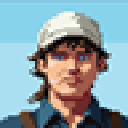
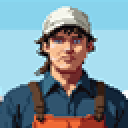
Profile pictures: centered character close-ups, skin pictures unlocked by owning the skin; Splash effects store tab (Sparkle, Water splash, 250 EB) shown to everyone when you play a card

diff --git a/public/client.js b/public/client.js
@@ -1,6 +1,6 @@
 // Everglades — browser client. Renders whatever the server says the game looks like.
 'use strict';
-const { CARDS, REGIONS, BIOMES, ROLES, BOSS, CHAR_ANIM, SKINS, CHAT, CHAT_GROUP_NAMES, DISRUPTIONS, FOIL_PRICE } = window.EG_DATA;
+const { CARDS, REGIONS, BIOMES, ROLES, BOSS, CHAR_ANIM, SKINS, CHAT, CHAT_GROUP_NAMES, DISRUPTIONS, FOIL_PRICE, SPLASHES } = window.EG_DATA;
 const roleInfo = r => r === 'Anaconda' ? BOSS : (r ? ROLES[r] : null);
 const $app = document.getElementById('app');
 const $peek = document.getElementById('peek');
@@ -291,7 +291,14 @@ function profileModal() {
   const need = C.econ.unlockWins;
   const tile = (a, locked, label, sub) => `<button class="avtile ${me.avatar === a.id ? 'on' : ''} ${locked ? 'locked' : ''}" ${locked ? 'disabled' : `data-avatar="${a.id}"`} title="${esc(label)}">
       <img src="${a.src}" alt="${esc(label)}">${locked ? `<span class="lock">${sub}</span>` : ''}</button>`;
-  const chars = C.avatars.characters.map(a => tile(a, false, a.id.split(':')[1].replace('LandDeveloper', 'Land Developer'))).join('');
+  // the characters, each followed by the skins of it you own
+  const ownedSkins = (C.avatars.skins || []).filter(s => me.owned.includes(s.id));
+  const chars = C.avatars.characters.map(a => {
+    const role = a.id.split(':')[1];
+    return tile(a, false, role.replace('LandDeveloper', 'Land Developer')) +
+      ownedSkins.filter(s => s.role === role).map(s => tile(s, false, `${s.name} (${ROLES[role].name} skin)`)).join('');
+  }).join('');
+  const skinNote = (C.avatars.skins || []).length > ownedSkins.length ? ' — skins you buy appear here too' : '';
   const unlockedN = C.avatars.animals.filter(a => me.unlocked.includes(a.id)).length;
   const animals = C.avatars.animals.map(a => {
     const wins = me.cardWins[a.card] || 0, locked = !me.unlocked.includes(a.id);
@@ -305,7 +312,7 @@ function profileModal() {
       <button class="btn brass" id="saveTag">Save gamertag</button>
     </div>
     <p class="hint" style="margin:0">Games ${me.stats.games} · First places ${me.stats.firsts} · Won ${Number(me.stats.ebWon).toLocaleString()} EB · Lost ${Number(me.stats.ebLost).toLocaleString()} EB${me.guest ? ' · Guest account (this browser only)' : ''}</p>
-    <div class="panel-title" style="margin:6px 0 0">Characters</div>
+    <div class="panel-title" style="margin:6px 0 0">Characters <span class="hint" style="text-transform:none;letter-spacing:0">${skinNote}</span></div>
     <div class="avgrid">${chars}</div>
     <div class="panel-title" style="margin:6px 0 0">Wildlife <span class="hint" style="text-transform:none;letter-spacing:0">— ${unlockedN}/${C.avatars.animals.length} unlocked. Win ${need} tricks with an animal card to unlock its picture.</span></div>
     <div class="avgrid">${animals}</div>
@@ -338,6 +345,7 @@ function storeModal() {
   let page = '';
   if (tab === 'eb') page = ebStoreHtml(me, C);
   if (tab === 'titles') page = titleStoreHtml(me, C);
+  if (tab === 'splash') page = splashStoreHtml(me, C);
   if (tab === 'skins') page = skinStoreHtml(me);
   if (tab === 'chat') page = chatStoreHtml(me);
   if (tab === 'foil') page = foilStoreHtml(me);
@@ -354,6 +362,7 @@ const STORE_TABS = {
   skins: { label: 'Character skins', type: 'skin' },
   chat: { label: 'Chat lines', type: 'chat' },
   foil: { label: 'Foil cards', type: 'foil' },
+  splash: { label: 'Splash effects', type: 'splash' },
   titles: { label: 'Titles', type: 'title' },
 };
 document.addEventListener('click', e => {
@@ -401,6 +410,110 @@ async function finishPurchase() {
   }
   showToast('Your payment is still processing. Your Eco-bucks will appear as soon as it clears.', false, 6000);
 }
+// Splash effects: preview each one on a sample card, buy it, and pick which one you use.
+function splashStoreHtml(me, C) {
+  const items = C.store.filter(it => it.type === 'splash').map(it => {
+    const owned = me.owned.includes(it.id), using = me.splash === it.splash;
+    const action = owned
+      ? `<button class="btn ${using ? '' : 'brass'}" data-splashwear="${using ? '' : it.splash}">${using ? 'Turn off' : 'Use this effect'}</button>`
+      : `<button class="btn primary" data-buy="${it.id}" ${me.balance < it.price ? 'disabled' : ''}>Buy · ${Number(it.price).toLocaleString()} EB</button>`;
+    return `<div class="storeitem">
+      <div class="storeprev splashprev"><button class="splashdemo" data-splashpreview="${it.splash}" title="Preview">${cardEl(it.splash === 'splash' ? 'Manatee' : 'Flamingo', '', 'data-splashcard="' + it.splash + '"')}<span>▶ Preview</span></button></div>
+      <div class="storeinfo"><b>${esc(it.name)}</b><span class="hint">${esc(it.blurb)}</span>
+        <span>${fmtEB(it.price)}${owned ? ` · <span style="color:var(--native)">${using ? 'In use' : 'Owned'}</span>` : me.balance < it.price ? ` · <span class="hint">you need ${(it.price - me.balance).toLocaleString()} more</span>` : ''}</span></div>
+      <div>${action}</div></div>`;
+  }).join('');
+  return `<p class="hint" style="margin:0 0 8px">Your splash effect bursts from every card you play, and everyone at the table sees it. You use one at a time.</p><div class="storelist">${items}</div>`;
+}
+document.addEventListener('click', async e => {
+  const pv = e.target.closest('[data-splashpreview]');
+  if (pv) { e.preventDefault(); const card = pv.querySelector('.card'); if (card) playSplash(pv.dataset.splashpreview, card, true); return; }
+  const w = e.target.closest('[data-splashwear]'); if (!w) return;
+  try { acct.msg = ''; acct.me = (await acctApi('profile', { splash: w.dataset.splashwear || null })).me; } catch (err) { acct.msg = err.message; SFX.error(); }
+  render();
+});
+
+// ---------- splash effects (pixel-art particles drawn over a card) ----------
+// A canvas laid over the card (and a margin around it) for about a second. Drawn at 1/3 resolution and scaled up
+// without smoothing, so the particles are chunky pixels like the rest of the game.
+const SPLASH_PX = 3;
+function playSplash(type, el, preview = false) {
+  if (!el || !SPLASHES.some(s => s.id === type)) return;
+  if (matchMedia('(prefers-reduced-motion: reduce)').matches && !preview) return;
+  const r = el.getBoundingClientRect(); if (!r.width) return;
+  const M = Math.round(Math.max(40, r.width * 0.7)); // room around the card for the burst
+  const cv = document.createElement('canvas');
+  cv.className = 'splashfx';
+  const W = Math.ceil((r.width + 2 * M) / SPLASH_PX), H = Math.ceil((r.height + 2 * M) / SPLASH_PX);
+  cv.width = W; cv.height = H;
+  Object.assign(cv.style, { left: (r.left - M) + 'px', top: (r.top - M) + 'px', width: W * SPLASH_PX + 'px', height: H * SPLASH_PX + 'px' });
+  document.body.appendChild(cv);
+  const g = cv.getContext('2d');
+  const cx = W / 2, cy = H / 2, cw = r.width / SPLASH_PX, ch = r.height / SPLASH_PX;
+  const rnd = (a, b) => a + Math.random() * (b - a);
+  const dot = (x, y, c, s = 1) => { g.fillStyle = c; g.fillRect(Math.round(x), Math.round(y), s, s); };
+  let parts = [], dur = 1100;
+  if (type === 'sparkle') {
+    dur = 1200;
+    for (let i = 0; i < 32; i++) { // stars burst from the card's edges and twinkle as they drift out
+      const a = rnd(0, Math.PI * 2), sp = rnd(10, 34);
+      const ex = cx + Math.cos(a) * cw * 0.45, ey = cy + Math.sin(a) * ch * 0.45;
+      parts.push({ x: ex, y: ey, vx: Math.cos(a) * sp, vy: Math.sin(a) * sp - 6, big: Math.random() < 0.35, ph: rnd(0, 6), c: ['#fff6b0', '#ffd84a', '#ffffff', '#ffe98a'][i % 4], life: rnd(0.65, 1) });
+    }
+  } else { // water splash: a crown of droplets thrown out from the card's base, falling back; a ripple rings out
+    const base = cy + ch / 2 - 2;
+    for (let i = 0; i < 48; i++) {
+      const side = i % 2 ? -1 : 1, edge = rnd(0.15, 0.5); // more droplets from near the card's sides
+      parts.push({ x: cx + side * cw * edge, y: base - rnd(0, ch * 0.15), vx: side * rnd(10, 38) * (0.6 + edge), vy: -rnd(45, 95),
+        s: Math.random() < 0.55 ? 2 : 1, c: ['#d8f6ff', '#6fd0f4', '#2e8fd0', '#ffffff', '#4fb4e6'][i % 5], life: rnd(0.75, 1) });
+    }
+  }
+  const t0 = performance.now();
+  (function frame(now) {
+    const t = (now - t0) / dur; // 0..1
+    g.clearRect(0, 0, W, H);
+    if (t >= 1 || !cv.isConnected) { cv.remove(); return; }
+    const dt = (now - t0) / 1000;
+    if (type === 'sparkle') {
+      // a quick flash around the card first
+      if (t < 0.18) { g.globalAlpha = 1 - t / 0.18; g.strokeStyle = '#fff6b0'; g.lineWidth = 1; g.strokeRect(Math.round(cx - cw / 2) - 1, Math.round(cy - ch / 2) - 1, Math.round(cw) + 2, Math.round(ch) + 2); g.globalAlpha = 1; }
+      for (const p of parts) {
+        if (t > p.life) continue;
+        const k = 1 - Math.min(1, dt * 1.6) * 0.6; // slow down as they drift
+        const x = p.x + p.vx * dt * k, y = p.y + p.vy * dt * k + 8 * dt * dt;
+        const tw = Math.sin(dt * 18 + p.ph) > -0.2; // twinkle
+        g.globalAlpha = Math.max(0, 1 - t / p.life);
+        if (!tw) { dot(x, y, p.c); continue; }
+        dot(x, y, p.c); dot(x - 1, y, p.c); dot(x + 1, y, p.c); dot(x, y - 1, p.c); dot(x, y + 1, p.c); // a little plus-shaped star
+        if (p.big && t < 0.6) { dot(x - 2, y, '#ffffff'); dot(x + 2, y, '#ffffff'); dot(x, y - 2, '#ffffff'); dot(x, y + 2, '#ffffff'); }
+      }
+    } else {
+      // ripple: two pixel ellipses spreading out under the card
+      for (const [delay, col] of [[0, '#7fd6f5'], [0.18, '#bfefff']]) {
+        const q = (t - delay) / 0.75; if (q <= 0 || q >= 1) continue;
+        const rx = cw * (0.35 + q * 0.55), ry = Math.max(2, rx * 0.22), by = cy + ch / 2 - 2;
+        g.globalAlpha = (1 - q) * 0.9;
+        for (let a = 0; a < Math.PI * 2; a += 0.12) dot(cx + Math.cos(a) * rx, by + Math.sin(a) * ry, col);
+      }
+      // the first moment: two columns of spray shooting up from the base corners
+      if (t < 0.3) {
+        g.globalAlpha = 1 - t / 0.3;
+        const hgt = Math.round(ch * 0.55 * Math.sin(Math.min(1, t / 0.15) * Math.PI / 2));
+        for (const sx of [cx - cw * 0.42, cx + cw * 0.42]) for (let k = 0; k < hgt; k += 2) dot(sx + (k % 4 ? 1 : -1), cy + ch / 2 - 2 - k, k % 6 ? '#bfefff' : '#ffffff', 2);
+      }
+      for (const p of parts) {
+        if (t > p.life) continue;
+        const vy = p.vy + 150 * dt, x = p.x + p.vx * dt, y = p.y + p.vy * dt + 75 * dt * dt; // gravity
+        g.globalAlpha = Math.max(0, Math.min(1, (p.life - t) * 4));
+        dot(x, y, p.c, p.s);
+        if (vy < 0) dot(x, y + p.s, p.c, 1); // a short streak while rising
+      }
+    }
+    g.globalAlpha = 1;
+    requestAnimationFrame(frame);
+  })(t0);
+}
+
 function titleStoreHtml(me, C) {
   const items = C.store.filter(it => it.type === 'title').map(it => {
     const owned = me.owned.includes(it.id), wearing = me.title === it.id;
@@ -729,6 +842,10 @@ function onUpdate(prev) {
     if (S.phase === 'ended' && prev.phase !== 'ended') setTimeout(SFX.end, 700);
     if (prev.phase === 'choose' && S.phase === 'play') SFX.travel();
     if (prev.phase === 'draft' && S.players.filter(p => p.role).length > prev.players.filter(p => p.role).length) SFX.trick();
+    // splash effects: cards that just landed in the trick, played by someone with an effect equipped
+    const nowPlays = S.trick ? S.trick.plays : newTrick ? lt.plays : [];
+    const before = new Set(prev.trick ? prev.trick.plays.map(x => x.card) : []);
+    for (const pl of nowPlays) if (!before.has(pl.card) && S.players[pl.p] && S.players[pl.p].splash) (ui.fxQueue = ui.fxQueue || []).push({ card: pl.card, type: S.players[pl.p].splash });
     const prevPlays = prev.trick ? prev.trick.plays.length : 0;
     if ((S.trick && S.trick.plays.length > prevPlays) || (newTrick && prevPlays < S.players.length)) SFX.card();
     const d = boardTotal(S.board) - boardTotal(prev.board);
@@ -1077,8 +1194,8 @@ function trickDoneHtml() {
       </div>
     </div>
     <div class="played" style="--n:${lt.plays.length}">${lt.plays.map(pl => pl.card === lt.card
-      ? captioned(cardEl(pl.card, `winner ${pl.p === S.you ? foil(pl.card) : ''}`, '', '', `<div class="winribbon">${lt.crisis ? 'CRISIS!' : 'WINNER'}</div>`), who(pl.p), 'win')
-      : captioned(cardEl(pl.card, `loser ${pl.p === S.you ? foil(pl.card) : ''}`), who(pl.p), 'lose')).join('')}</div>
+      ? captioned(cardEl(pl.card, `winner ${pl.p === S.you ? foil(pl.card) : ''}`, `data-played="${pl.card}"`, '', `<div class="winribbon">${lt.crisis ? 'CRISIS!' : 'WINNER'}</div>`), who(pl.p), 'win')
+      : captioned(cardEl(pl.card, `loser ${pl.p === S.you ? foil(pl.card) : ''}`, `data-played="${pl.card}"`), who(pl.p), 'lose')).join('')}</div>
     <div class="holdbar"><span style="animation-duration:${ui.trickHold.ms}ms;animation-delay:-${elapsed}ms"></span></div>
   </div>`;
 }
@@ -1172,7 +1289,7 @@ function tableHtml() {
       ${disPanelHtml()}
     </div>
     <div class="played" style="--n:${slots}">${S.trick.plays.length
-      ? S.trick.plays.map(pl => captioned(cardEl(pl.card, pl.p === S.you ? foil(pl.card) : ''), seatName(pl.p))).join('')
+      ? S.trick.plays.map(pl => captioned(cardEl(pl.card, pl.p === S.you ? foil(pl.card) : '', `data-played="${pl.card}"`), seatName(pl.p))).join('')
       : `<span class="lastline" style="color:var(--blush)">${S.phase === 'disrupt' ? 'Cards are played once the Disruptions are resolved.' : 'No cards played yet.'}</span>`}</div>
     <div class="strip">
       <h3>Travel row</h3>
@@ -1269,6 +1386,10 @@ function renderGame() {
   }
   ui.scrollTo = null;
   placeBubbles();
+  if (ui.fxQueue && ui.fxQueue.length) {
+    const q = ui.fxQueue; ui.fxQueue = [];
+    requestAnimationFrame(() => { for (const f of q) playSplash(f.type, [...document.querySelectorAll(`[data-played="${f.card}"]`)].find(e => e.offsetParent)); });
+  }
 }
 // phone layout (matches the phone media query in style.css)
 const phoneMQ = matchMedia('(max-width: 760px), (max-height: 520px) and (max-width: 1000px)');

diff --git a/accounts.js b/accounts.js
@@ -6,7 +6,7 @@
 'use strict';
 const path = require('path');
 const crypto = require('crypto');
-const { CARDS, ROLES, SKINS, CHAT, DISRUPTIONS, FOIL_PRICE } = require('./public/data.js');
+const { CARDS, ROLES, SKINS, CHAT, DISRUPTIONS, FOIL_PRICE, SPLASHES } = require('./public/data.js');
 
 // ---------- economy settings (change freely) ----------
 const ECON = {
@@ -30,15 +30,18 @@ const STORE = [
   // as foil, for that player only.
   ...Object.values(CARDS).map(c => ({ id: 'foil:' + c.id, type: 'foil', card: c.id, deck: c.kind, name: c.name + ' (foil)', price: FOIL_PRICE, blurb: 'Foil Ecology card' })),
   ...Object.values(DISRUPTIONS).map(d => ({ id: 'foil:' + d.id, type: 'foil', card: d.id, deck: 'Disruption', name: d.name + ' (foil)', price: FOIL_PRICE, blurb: 'Foil Disruption card' })),
+  // type 'splash': an effect that plays over your card when you play it (SPLASHES in public/data.js); equipped like a title
+  ...SPLASHES.map(s => ({ id: 'splash:' + s.id, type: 'splash', splash: s.id, name: s.name, price: s.price, blurb: s.blurb })),
 ];
 const ownsChat = (a, id) => !!a && a.owned.includes('chat:' + id);
 
 // ---------- profile pictures ----------
 const CHARACTER_AVATARS = ['Conservationist', 'Fisherman', 'Hunter', 'LandDeveloper', 'Researcher', 'Tourist', 'Anaconda'];
 const ANIMAL_AVATARS = Object.values(CARDS).filter(c => c.taxon !== 'Plant').map(c => c.id);
+// every character skin has a picture too ('skin:<id>'), unlocked by owning the skin
 const avatarSrc = id => {
   const [kind, name] = String(id).split(':');
-  return kind === 'animal' ? `assets/avatars/animal_${name}.png` : `assets/avatars/char_${name}.png`;
+  return kind === 'animal' ? `assets/avatars/animal_${name}.png` : kind === 'skin' ? `assets/avatars/skin_${name}.png` : `assets/avatars/char_${name}.png`;
 };
 
 // ---------- storage (see storage.js: Upstash Redis when configured, otherwise a local file) ----------
@@ -151,10 +154,11 @@ async function googleLogin(credential) {
 // ---------- profile ----------
 function unlockedAvatars(a) {
   return [...CHARACTER_AVATARS.map(c => 'char:' + c),
+    ...SKINS.filter(s => a.owned.includes('skin:' + s.id)).map(s => 'skin:' + s.id),
     ...ANIMAL_AVATARS.filter(id => (a.cardWins[id] || 0) >= ECON.unlockWins).map(id => 'animal:' + id)];
 }
 // skin: { role, id } equips skin `id` for that character; id null goes back to the original look.
-function setProfile(a, { gamertag, avatar, title, skin }) {
+function setProfile(a, { gamertag, avatar, title, skin, splash }) {
   if (skin !== undefined) {
     const role = skin && skin.role, id = skin && skin.id;
     if (!ROLES[role]) throw userErr('That character does not exist.');
@@ -181,6 +185,10 @@ function setProfile(a, { gamertag, avatar, title, skin }) {
     if (title !== null && !a.owned.includes(title)) throw userErr("You don't own that title yet.");
     a.title = title;
   }
+  if (splash !== undefined) { // a splash effect id ('sparkle'), or null to turn it off
+    if (splash !== null && !a.owned.includes('splash:' + splash)) throw userErr("You don't own that splash effect yet.");
+    a.splash = splash;
+  }
   save();
   return a;
 }
@@ -202,6 +210,7 @@ function buy(a, itemId) {
   a.balance -= item.price; a.owned.push(item.id);
   if (item.type === 'title' && !a.title) a.title = item.id; // wear it straight away
   if (item.type === 'skin') a.skins = Object.assign({}, a.skins, { [item.role]: item.skin }); // equip it straight away
+  if (item.type === 'splash') a.splash = item.splash; // switch to the new effect straight away
   save();
   return item;
 }
@@ -284,9 +293,10 @@ function skinFor(a, role) {
   const id = a && a.skins && a.skins[role];
   return id && a.owned.includes('skin:' + id) ? id : null;
 }
+const splashFor = a => (a && a.splash && a.owned.includes('splash:' + a.splash) ? a.splash : null); // the effect everyone sees
 function publicProfile(a) { // shown to everyone (lobby banner)
   return { id: a.id, gamertag: a.gamertag, avatar: a.avatar, avatarSrc: avatarSrc(a.avatar), title: a.title, titleName: titleName(a.title),
-    skins: Object.fromEntries(Object.keys(ROLES).map(r => [r, skinFor(a, r)]).filter(x => x[1])) };
+    skins: Object.fromEntries(Object.keys(ROLES).map(r => [r, skinFor(a, r)]).filter(x => x[1])), splash: splashFor(a) };
 }
 function privateProfile(a) { // shown to the account owner
   return Object.assign(publicProfile(a), {
@@ -297,6 +307,7 @@ function privateProfile(a) { // shown to the account owner
 function config() {
   return { googleClientId: GOOGLE_CLIENT_ID(), guestsAllowed: guestsAllowed(), econ: ECON, store: STORE,
     avatars: { characters: CHARACTER_AVATARS.map(c => ({ id: 'char:' + c, src: avatarSrc('char:' + c) })),
+      skins: SKINS.map(s => ({ id: 'skin:' + s.id, role: s.role, name: s.name, src: avatarSrc('skin:' + s.id) })),
       animals: ANIMAL_AVATARS.map(id => ({ id: 'animal:' + id, card: id, name: CARDS[id].name, src: avatarSrc('animal:' + id) })) } };
 }
 const get = id => db.accounts[id] || null;
@@ -336,5 +347,5 @@ function adjustPurchase(paymentIntent, change) {
 module.exports = {
   ECON, STORE, ready, flush, saveNow, storeName: () => store.name, get, bySession, requireAccount, signOut, guestLogin, googleLogin,
   setProfile, dailyBonus, buy, takeBuyIns, refundEscrow, refundAllEscrows, settle, payouts, recordCardWin,
-  publicProfile, privateProfile, config, avatarSrc, titleName, skinFor, ownsChat, creditPurchase, adjustPurchase,
+  publicProfile, privateProfile, config, avatarSrc, titleName, skinFor, splashFor, ownsChat, creditPurchase, adjustPurchase,
 };

diff --git a/server.js b/server.js
@@ -105,6 +105,7 @@ function viewFor(room, member) {
         role: p.role, // roles are public
         skin: a && typeof p.role === 'string' ? A.skinFor(a, p.role) : null, // the look everyone sees for this player's character
         profile: a ? A.publicProfile(a) : null,
+        splash: A.splashFor(a), // the splash effect everyone sees when this player plays a card
       };
     }),
     settlement: room.settlement, // Eco-buck payouts once the game is over
@@ -345,7 +346,7 @@ const server = http.createServer(async (req, res) => {
       }
       if (op === 'profile') {
         const a = A.requireAccount(body.session);
-        A.setProfile(a, { gamertag: body.gamertag, avatar: body.avatar, title: body.title, skin: body.skin });
+        A.setProfile(a, { gamertag: body.gamertag, avatar: body.avatar, title: body.title, skin: body.skin, splash: body.splash });
         // update lobby banners, and the portraits of anyone already at a table (a skin change shows straight away)
         for (const r of rooms.values()) if (r.members.some(m => m.accountId === a.id)) broadcast(r);
         return send(res, 200, { me: A.privateProfile(a) });

diff --git a/public/data.js b/public/data.js
@@ -281,7 +281,15 @@
   // Foil cards: a shiny version of any Ecology or Disruption card, seen only by the player who owns it.
   const FOIL_PRICE = 100;
 
-  const DATA = { CARDS, REGIONS, ADJ, BIOMES, ROLES, BOSS, CHAR_ANIM, SKINS, CHAT, CHAT_GROUP_NAMES, DISRUPTIONS, FOIL_PRICE };
+  // Splash effects: a burst that plays over your card whenever you play one (everyone at the table sees it).
+  // Bought in the store's Splash effects tab and equipped like a title; drawn by playSplash() in client.js.
+  const SPLASH_PRICE = 250;
+  const SPLASHES = [
+    { id: 'sparkle', name: 'Sparkle', price: SPLASH_PRICE, blurb: 'Golden stars burst from your card and twinkle away.' },
+    { id: 'splash', name: 'Water splash', price: SPLASH_PRICE, blurb: 'Your card lands with a splash of swamp water and a ripple.' },
+  ];
+
+  const DATA = { CARDS, REGIONS, ADJ, BIOMES, ROLES, BOSS, CHAR_ANIM, SKINS, CHAT, CHAT_GROUP_NAMES, DISRUPTIONS, FOIL_PRICE, SPLASHES, SPLASH_PRICE };
   if (typeof module !== 'undefined' && module.exports) module.exports = DATA;
   else root.EG_DATA = DATA;
 })(typeof window !== 'undefined' ? window : globalThis);

diff --git a/public/style.css b/public/style.css
@@ -830,3 +830,12 @@ input.field.codefield::placeholder { font-size: 15px; letter-spacing: 3px; }
 .inapp { font-size: 16px; line-height: 1.35; padding: 8px 10px; background: #fff3cf; border: 2px dashed var(--brass); color: var(--ink); }
 .inapp .btn { margin-top: 6px; }
 .guestwarn { display: block; margin: 6px 0 0; font-size: 15px; color: var(--red); }
+
+/* ---------- splash effects (playSplash in client.js) ---------- */
+.splashfx { position: fixed; z-index: 58; pointer-events: none; image-rendering: pixelated; image-rendering: crisp-edges; }
+.splashprev { display: flex; justify-content: center; }
+.splashdemo { display: flex; flex-direction: column; align-items: center; gap: 4px; padding: 6px 10px; background: transparent; border: 0; cursor: pointer; }
+.splashdemo .card { width: 84px; pointer-events: none; }
+.splashdemo .card img { width: 100%; display: block; }
+.splashdemo span { font-family: var(--font-small); font-size: 14px; color: var(--ink); }
+.splashdemo:hover span { text-decoration: underline; }

diff --git a/README.md b/README.md
@@ -107,6 +107,10 @@ Everyone signs in before they sit down at a table. An account keeps your **gamer
 4. Test keys and live keys each need their own webhook endpoint and secret.
 5. The **Terms of Service** (`public/terms.html`) and **Refund Policy** (`public/refunds.html`) are linked from the home page and the store. Set `SUPPORT_EMAIL` in Render to show your support address on them. Without it, they point to the contact on the Stripe receipt. In Stripe, under **Settings > Business > Public details**, add the two page URLs and your support email.
 
+**Splash effects (250 EB each):** the store's **Splash effects** tab sells effects that burst from a card when its owner plays it, and everyone at the table sees them. The first two are **Sparkle** (golden pixel stars) and **Water splash** (a crown of droplets and a ripple). Each one can be previewed in the store. A player uses one at a time, picked like a title. The effects are listed in `SPLASHES` in `public/data.js` and drawn by `playSplash()` in `public/client.js`. They're skipped for players with reduced motion turned on.
+
+**Profile pictures:** every character picture is a centered close-up taken from the character's animation art. Each character skin you own adds its own picture next to that character (`assets/avatars/skin_<id>.png`).
+
 All the numbers (starting balance, daily bonus, buy-ins, unlock count) and the store's items are at the top of `accounts.js`. To add a cosmetic, add it to `STORE` there. Skins and their price (`SKIN_PRICE`) are in `public/data.js`. Run `node test/economy.js` to check the payouts, store, unlocks and sign-in after changes.
 
 ### Turning on "Sign in with Google" (about 10 minutes, free)
